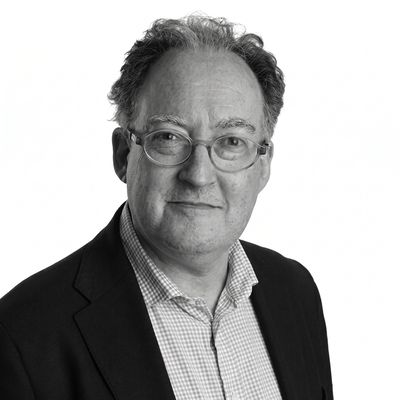
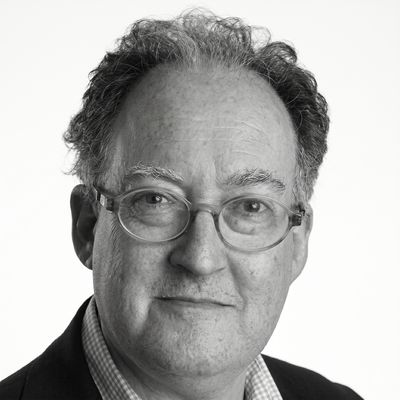
Refresh Gideon Rachman photo

diff --git a/newsroom/static/newsroom.html b/newsroom/static/newsroom.html
@@ -386,7 +386,7 @@ const AUTHOR_PHOTOS = {
   'Elena Landau':'/static/journalists/elena-landau.jpg?v=20260426',
   'Fernando Gabeira':'/static/journalists/fernando-gabeira.jpg?v=20260426d',
   'Fareed Zakaria':'/static/journalists/fareed-zakaria.jpg?v=20260426e',
-  'Gideon Rachman':'/static/journalists/gideon-rachman.jpg?v=20260426b',
+  'Gideon Rachman':'/static/journalists/gideon-rachman.jpg?v=20260426f',
   'Guy Perelmuter':'/static/journalists/guy-perelmuter.jpg?v=20260426b',
   'Ian Bremmer':'/static/journalists/ian-bremmer.jpg?v=20260426c',
   'Lourival Sant\'Anna':'/static/journalists/lourival-sant-anna.jpg?v=20260426b',
